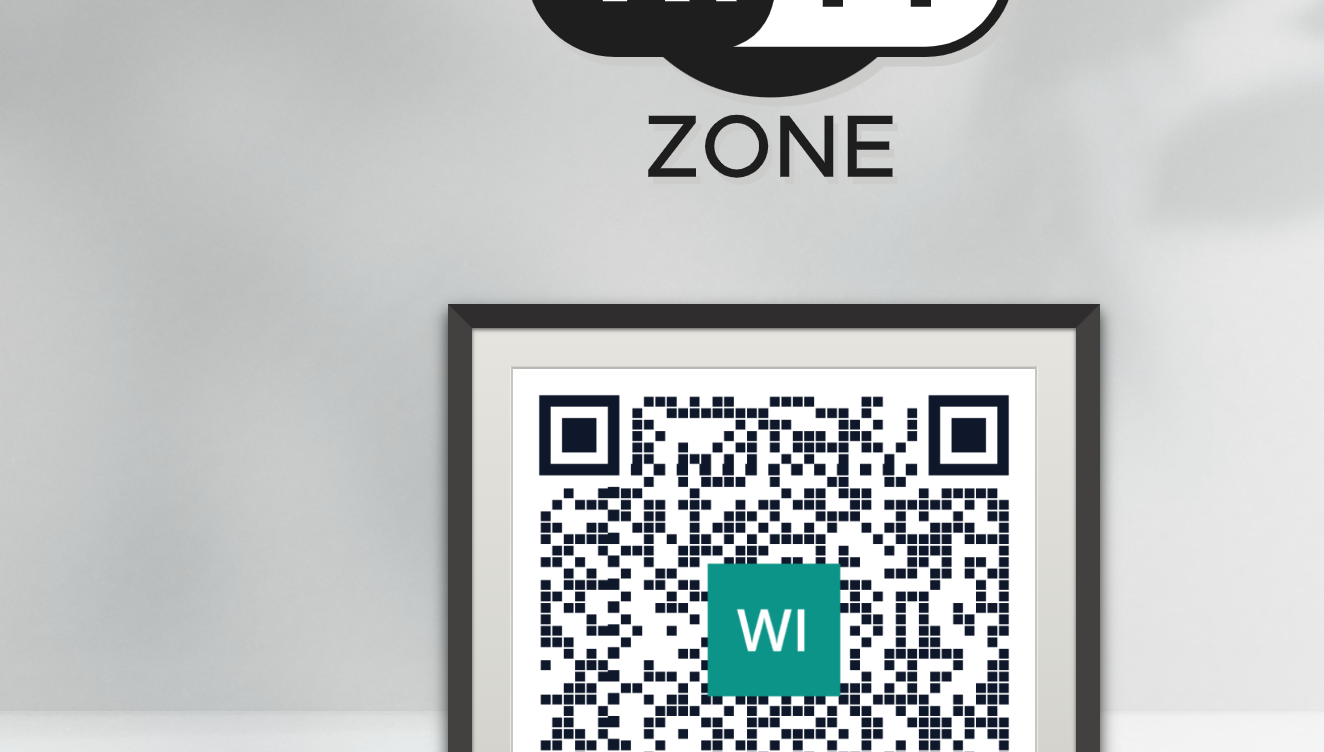
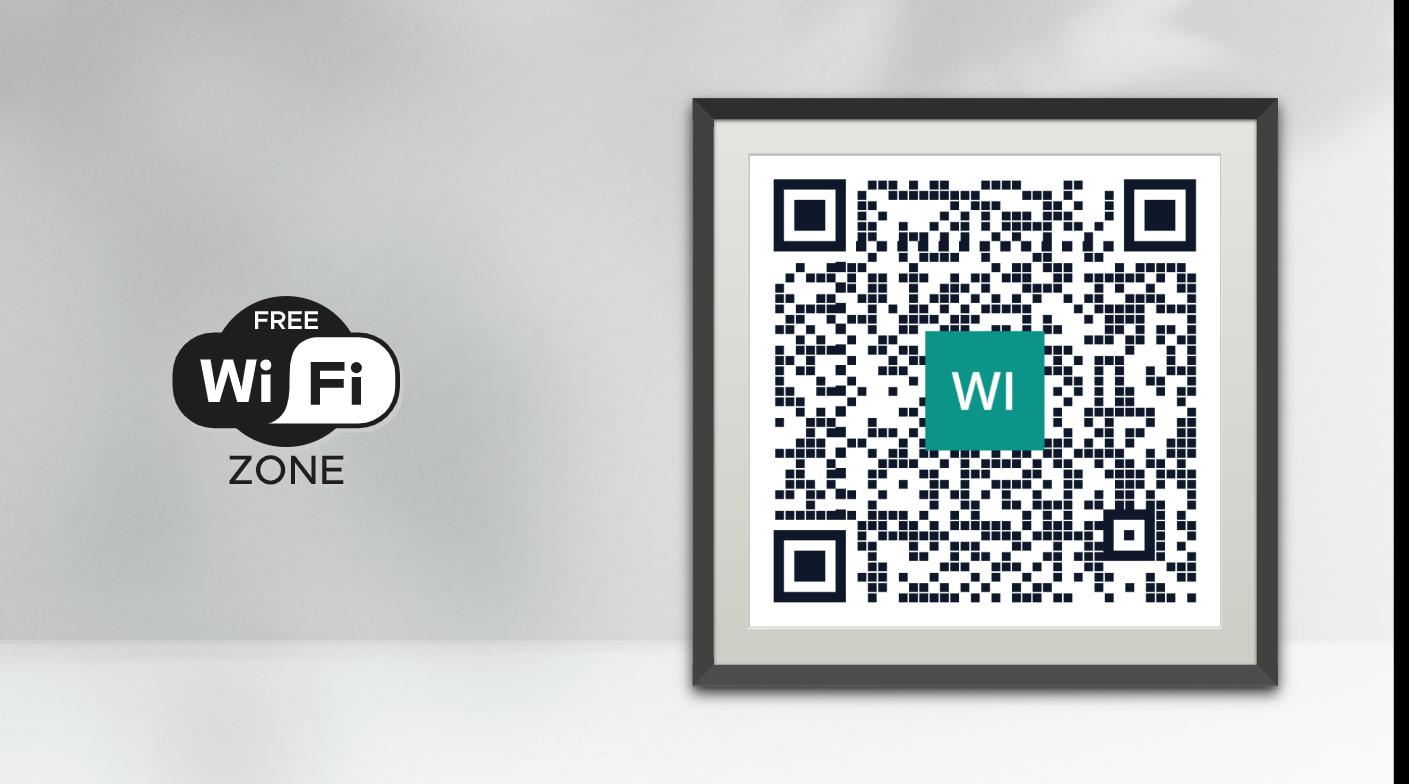
🐛 fix stray trailing comma forcing .main to always stack in a column
.portrait, .v-banner,
  .main
    flex-direction: column

The trailing comma after .v-banner made Sass treat the indented .main
as a THIRD top-level selector in the same comma list, instead of
nesting it under .portrait/.v-banner as intended - compiling to
`.portrait,.v-banner,.main{flex-direction:column}`, which forced
flex-direction:column on every .main regardless of format. This broke
landscape and h-banner: the WiFi logo and the QR-code frame stacked
vertically instead of sitting side by side. Removed the trailing comma
so it compiles to `.portrait .main,.v-banner .main{...}`, correctly
scoped to just those two formats.

Also fixed the same class of bug in wifi-qrcode/style.sass: `#Frames`
followed by an unindented `#Frame` on the next line meant `#Frames`
was a separate, fully empty rule (a Sass build warning) instead of
sharing margin/padding/text-align with `#Frame` as intended - joined
them with a comma.

Verified: build/assets/*.css now shows `.portrait .main,.v-banner
.main{flex-direction:column}`, zero Sass build warnings, and all 5
screen-format screenshots recaptured to reflect the fix (landscape and
h-banner now show the logo and QR frame side by side; portrait,
square, and v-banner were already unaffected but recaptured too for
consistency).

diff --git a/templates/qrcode-wifi/src/components/main/style.sass b/templates/qrcode-wifi/src/components/main/style.sass
@@ -27,7 +27,7 @@
     img
       width: 40%
 
-.portrait, .v-banner,
+.portrait, .v-banner
   .main
     flex-direction: column
     .wifi-symbol

diff --git a/templates/qrcode-wifi/src/components/wifi-qrcode/style.sass b/templates/qrcode-wifi/src/components/wifi-qrcode/style.sass
@@ -1,5 +1,4 @@
-#Frames
-#Frame
+#Frames, #Frame
   margin: 0px
   padding: 0px
   text-align: center
